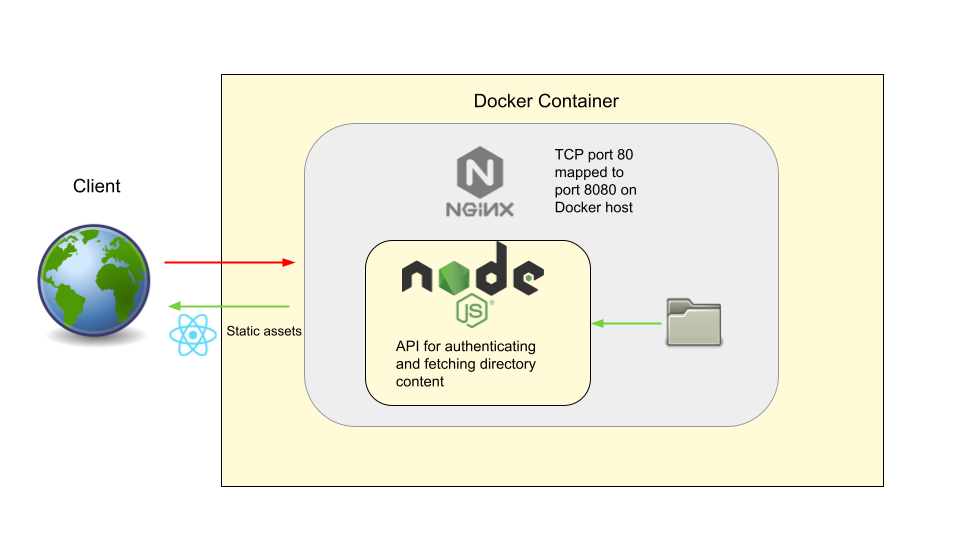
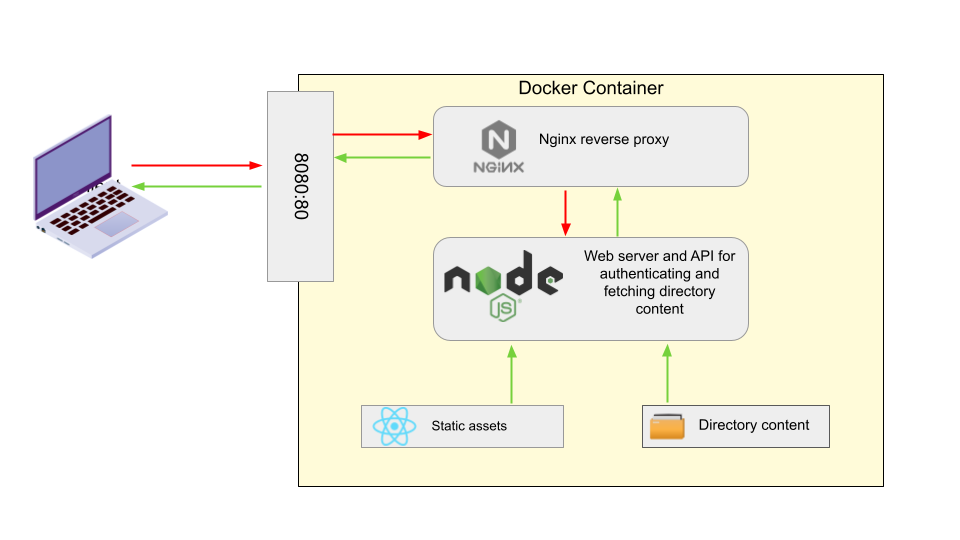
adding to DD

diff --git a/DesignDoc.md b/DesignDoc.md
@@ -38,14 +38,14 @@ The front end will define the user interface for the app and contain 4 custom co
 
 #### Trade-offs
 
-### NodeJS backend API
+### NodeJS web server & API
 
-The backend API will receive requests for a directory location from the frontend and return the data in that directory. It will also provide authentication capabilities by verifying a user has an active session open each time they make an API call for new information.
+The nodeJS backend will use ExpressJS to create a lightweight server for serving the static files from the React application. The API will receive requests for a directory location from the frontend and return the data in that directory. It will also provide authentication capabilities by verifying a user has an active session open each time they make an API call for new information.
 
 #### Dependencies and libraries
 
 - bcrypt: For hashing and comparing passwords
-- ExpressJS: Library for making simple and lightweight RESTful API
+- ExpressJS: Framework for making simple and lightweight web service and RESTful API
 
 #### Endpoints
 
@@ -56,12 +56,10 @@ The backend API will receive requests for a directory location from the frontend
     - if the user is not authenticated, returns an error response
     - if the directory does not exist, returns an error response
 
-### Nginx web server
+### Nginx reverse proxy
 
-fer survin it up
+the nginx reverse proxy will act as the middleman between the client and the ExpressJS webserver. It will take requests made from the client and pass them on to the ExpressJS server.
 
 ### Docker container
 
 Instructions for building and running the container will be in the README.md file
-
-
